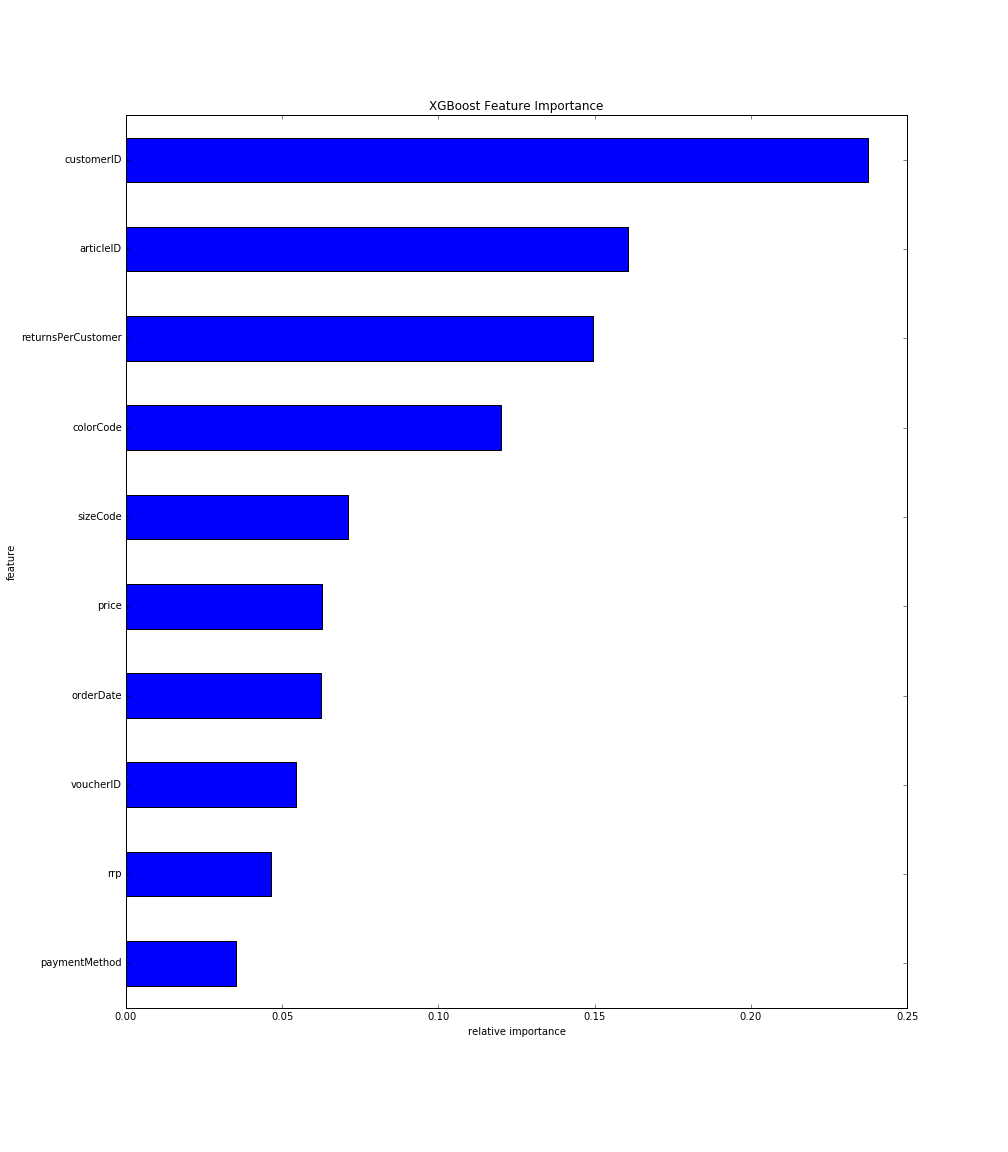
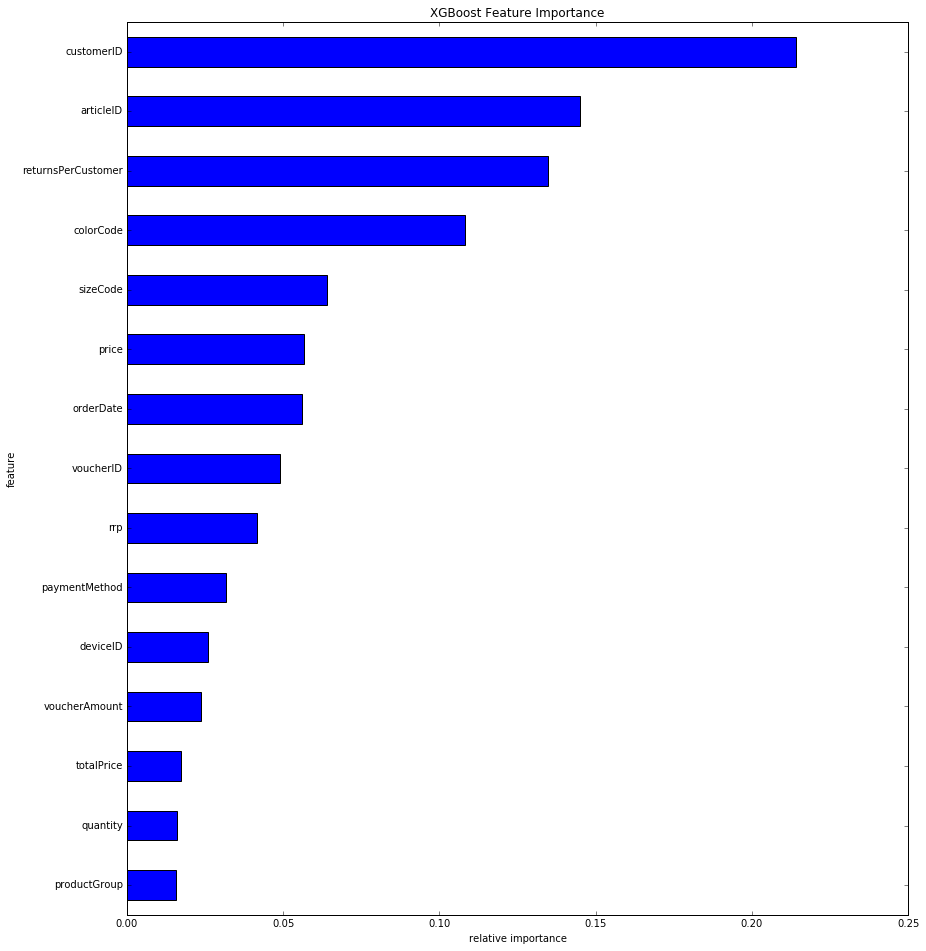
added differenceRRPprice, new feature importance

diff --git a/DMC2016.py b/DMC2016.py
@@ -61,7 +61,7 @@ def preprocess(df,impute):
         """
         Create totalPrice column
         """
-        def totalPrice(df):
+        def totalPrice(df): #no point from feature importance graph
             df['totalPrice'] = df['price']*df['quantity']
             return df
         """
@@ -86,6 +86,10 @@ def preprocess(df,impute):
         
         def encodeColorCode(df): #decreases accuracy
             df['colorCode'] = df['colorCode']//100
+            return df
+            
+        def differenceRRPprice(df): 
+            df['rrp-price'] = df['rrp'] - df['price']
             return df
         
         df = totalPrice(df)
